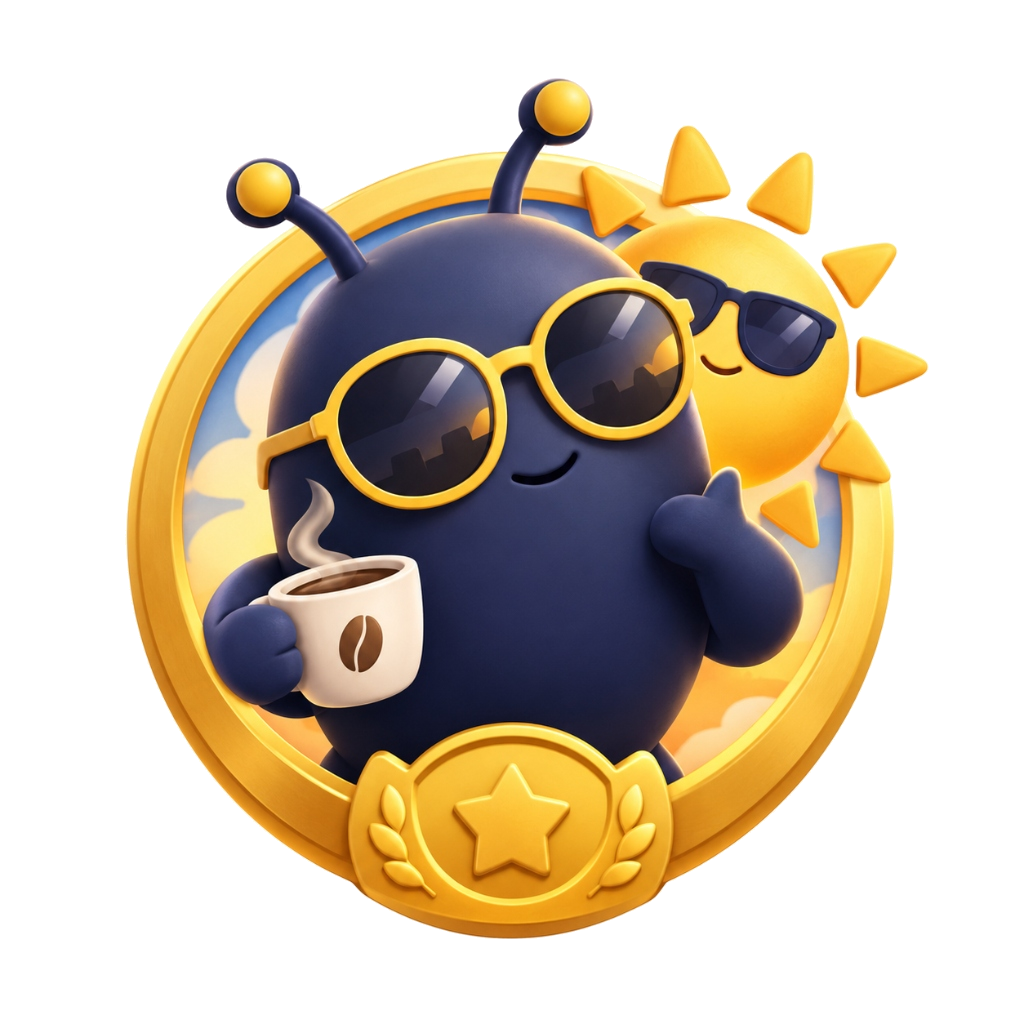
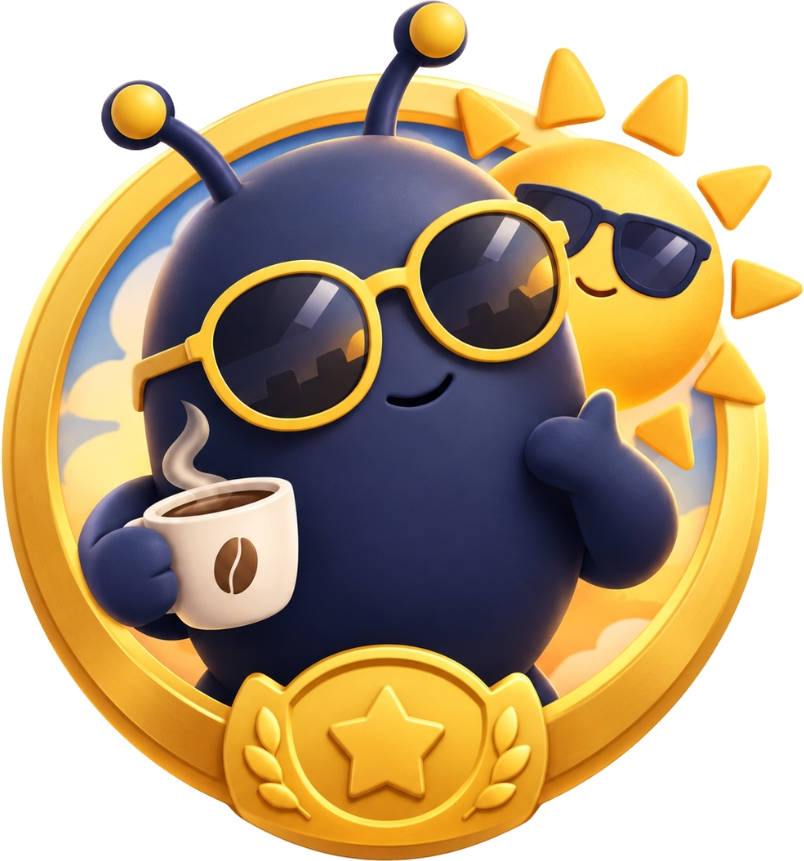
Enlarge Early Bird badge illustration and increase spacing between honors rows

diff --git a/src/components/profile/ProfileHonors.tsx b/src/components/profile/ProfileHonors.tsx
@@ -360,7 +360,7 @@ export function ProfileHonors({
   const previewAchievements = sortedAchievements.slice(0, 4);
 
   return (
-    <div className="w-full flex flex-col gap-6 select-none mt-2">
+    <div className="w-full flex flex-col gap-12 sm:gap-14 select-none mt-2">
       <div className="flex flex-col gap-3">
         <div className="flex items-center justify-between px-1">
           <h2 className="text-sm sm:text-base font-black text-slate-200 uppercase tracking-wider flex items-center gap-2">
@@ -413,9 +413,9 @@ export function ProfileHonors({
                     <img
                       src="/badges/early-bird.png"
                       alt={badge.name}
-                      className={`w-full h-full object-contain transition-all ${
+                      className={`w-[115px] h-[115px] sm:w-[130px] sm:h-[130px] max-w-none shrink-0 object-contain transition-all ${
                         isUnlocked
-                          ? "drop-shadow-[0_0_12px_rgba(251,191,36,0.6)]"
+                          ? "drop-shadow-[0_0_16px_rgba(251,191,36,0.7)]"
                           : "grayscale opacity-50"
                       }`}
                     />
@@ -549,10 +549,10 @@ export function ProfileHonors({
                       className="p-3.5 sm:p-4 rounded-2xl bg-[#0b1426] border border-slate-800 hover:border-slate-700 flex items-center gap-3.5 cursor-pointer transition-colors"
                     >
                       <div
-                        className={`w-14 h-14 rounded-full flex items-center justify-center shrink-0 ${
+                        className={`rounded-full flex items-center justify-center shrink-0 ${
                           badge.id === "early_bird"
-                            ? ""
-                            : `border-2 ${
+                            ? "w-20 h-20"
+                            : `w-14 h-14 border-2 ${
                                 isUnlocked ? `${badge.ringColor} bg-slate-950` : "border-slate-700 bg-slate-950 opacity-60"
                               }`
                         }`}
@@ -691,10 +691,10 @@ export function ProfileHonors({
 
             <div className="flex flex-col items-center text-center mt-4">
               <div
-                className={`w-[150px] h-[150px] flex items-center justify-center relative shadow-2xl mb-5 ${
+                className={`flex items-center justify-center relative shadow-2xl mb-5 ${
                   selectedHonor.item.id === "early_bird"
-                    ? ""
-                    : "rounded-3xl bg-slate-950 border-2 border-slate-800"
+                    ? "w-[240px] h-[240px] sm:w-[280px] sm:h-[280px]"
+                    : "w-[150px] h-[150px] rounded-3xl bg-slate-950 border-2 border-slate-800"
                 }`}
                 style={{
                   boxShadow: `0 0 50px ${selectedHonor.item.glowColor}`,
@@ -704,9 +704,9 @@ export function ProfileHonors({
                   <img
                     src="/badges/early-bird.png"
                     alt={selectedHonor.item.name}
-                    className={`w-[150px] h-[150px] object-contain transition-all ${
+                    className={`w-[240px] h-[240px] sm:w-[280px] sm:h-[280px] object-contain transition-all ${
                       selectedHonor.item.current >= selectedHonor.item.target
-                        ? "drop-shadow-[0_0_24px_rgba(251,191,36,0.7)]"
+                        ? "drop-shadow-[0_0_28px_rgba(251,191,36,0.7)]"
                         : "grayscale opacity-50"
                     }`}
                   />
